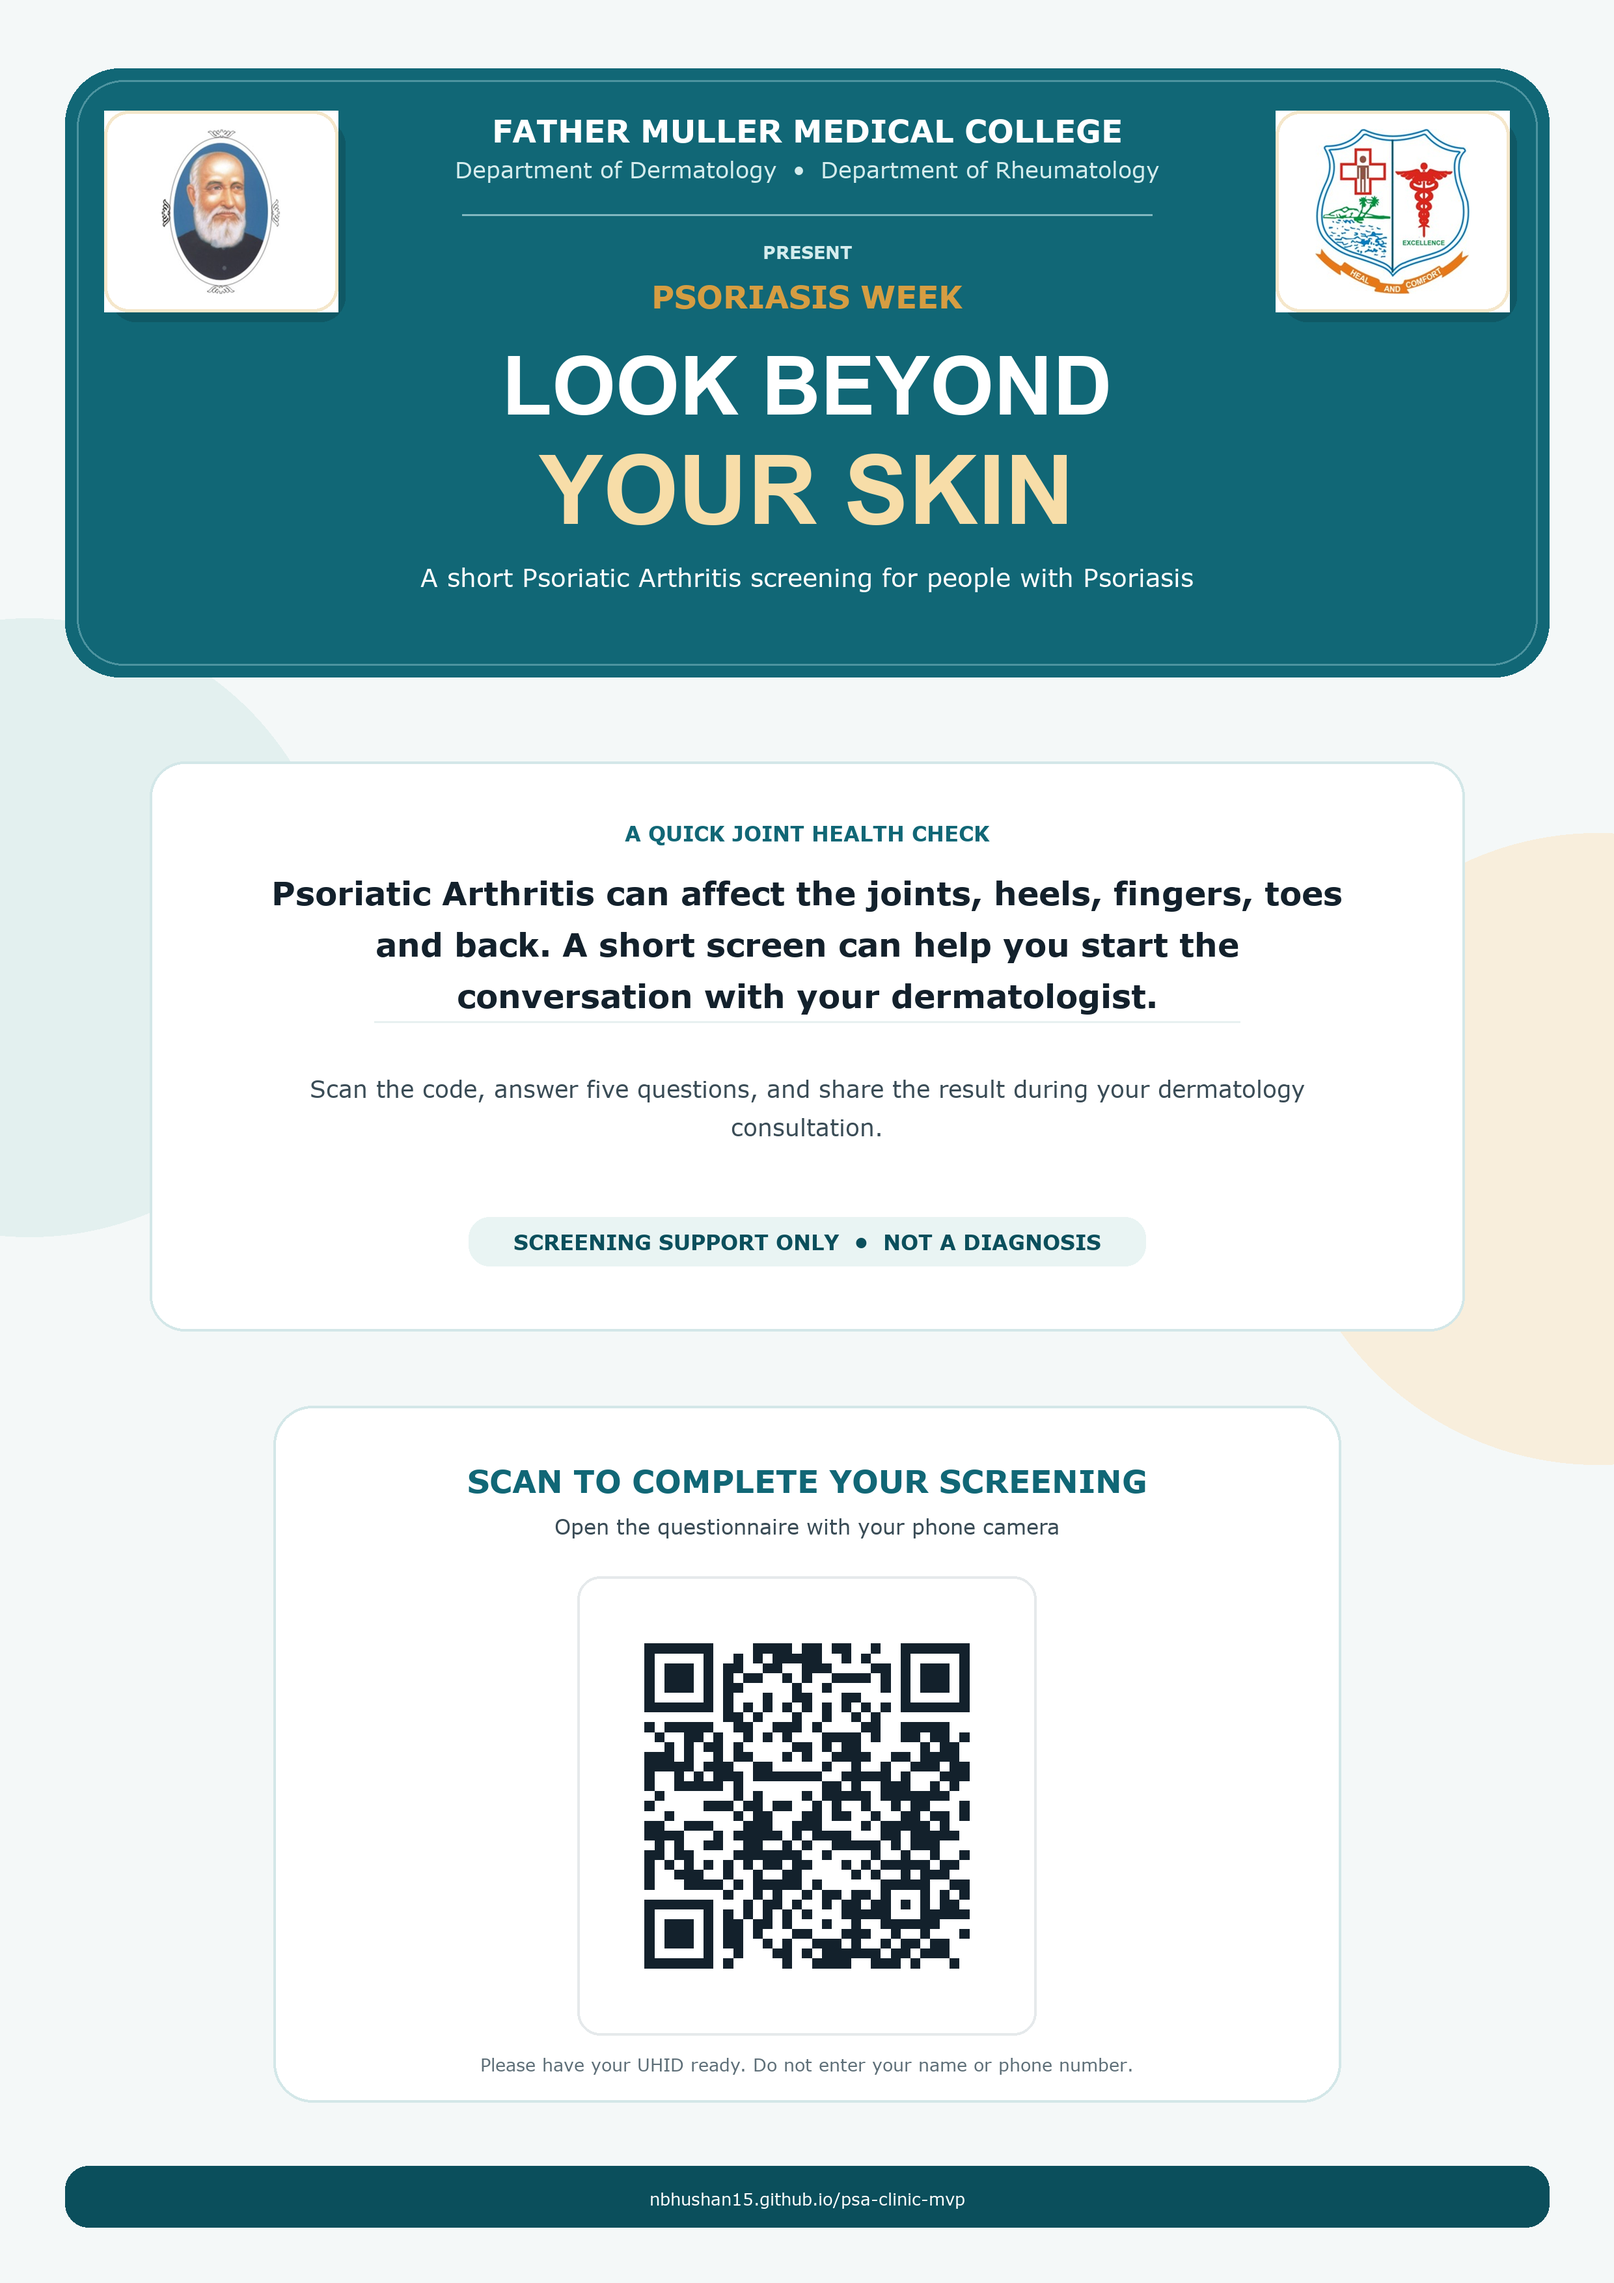
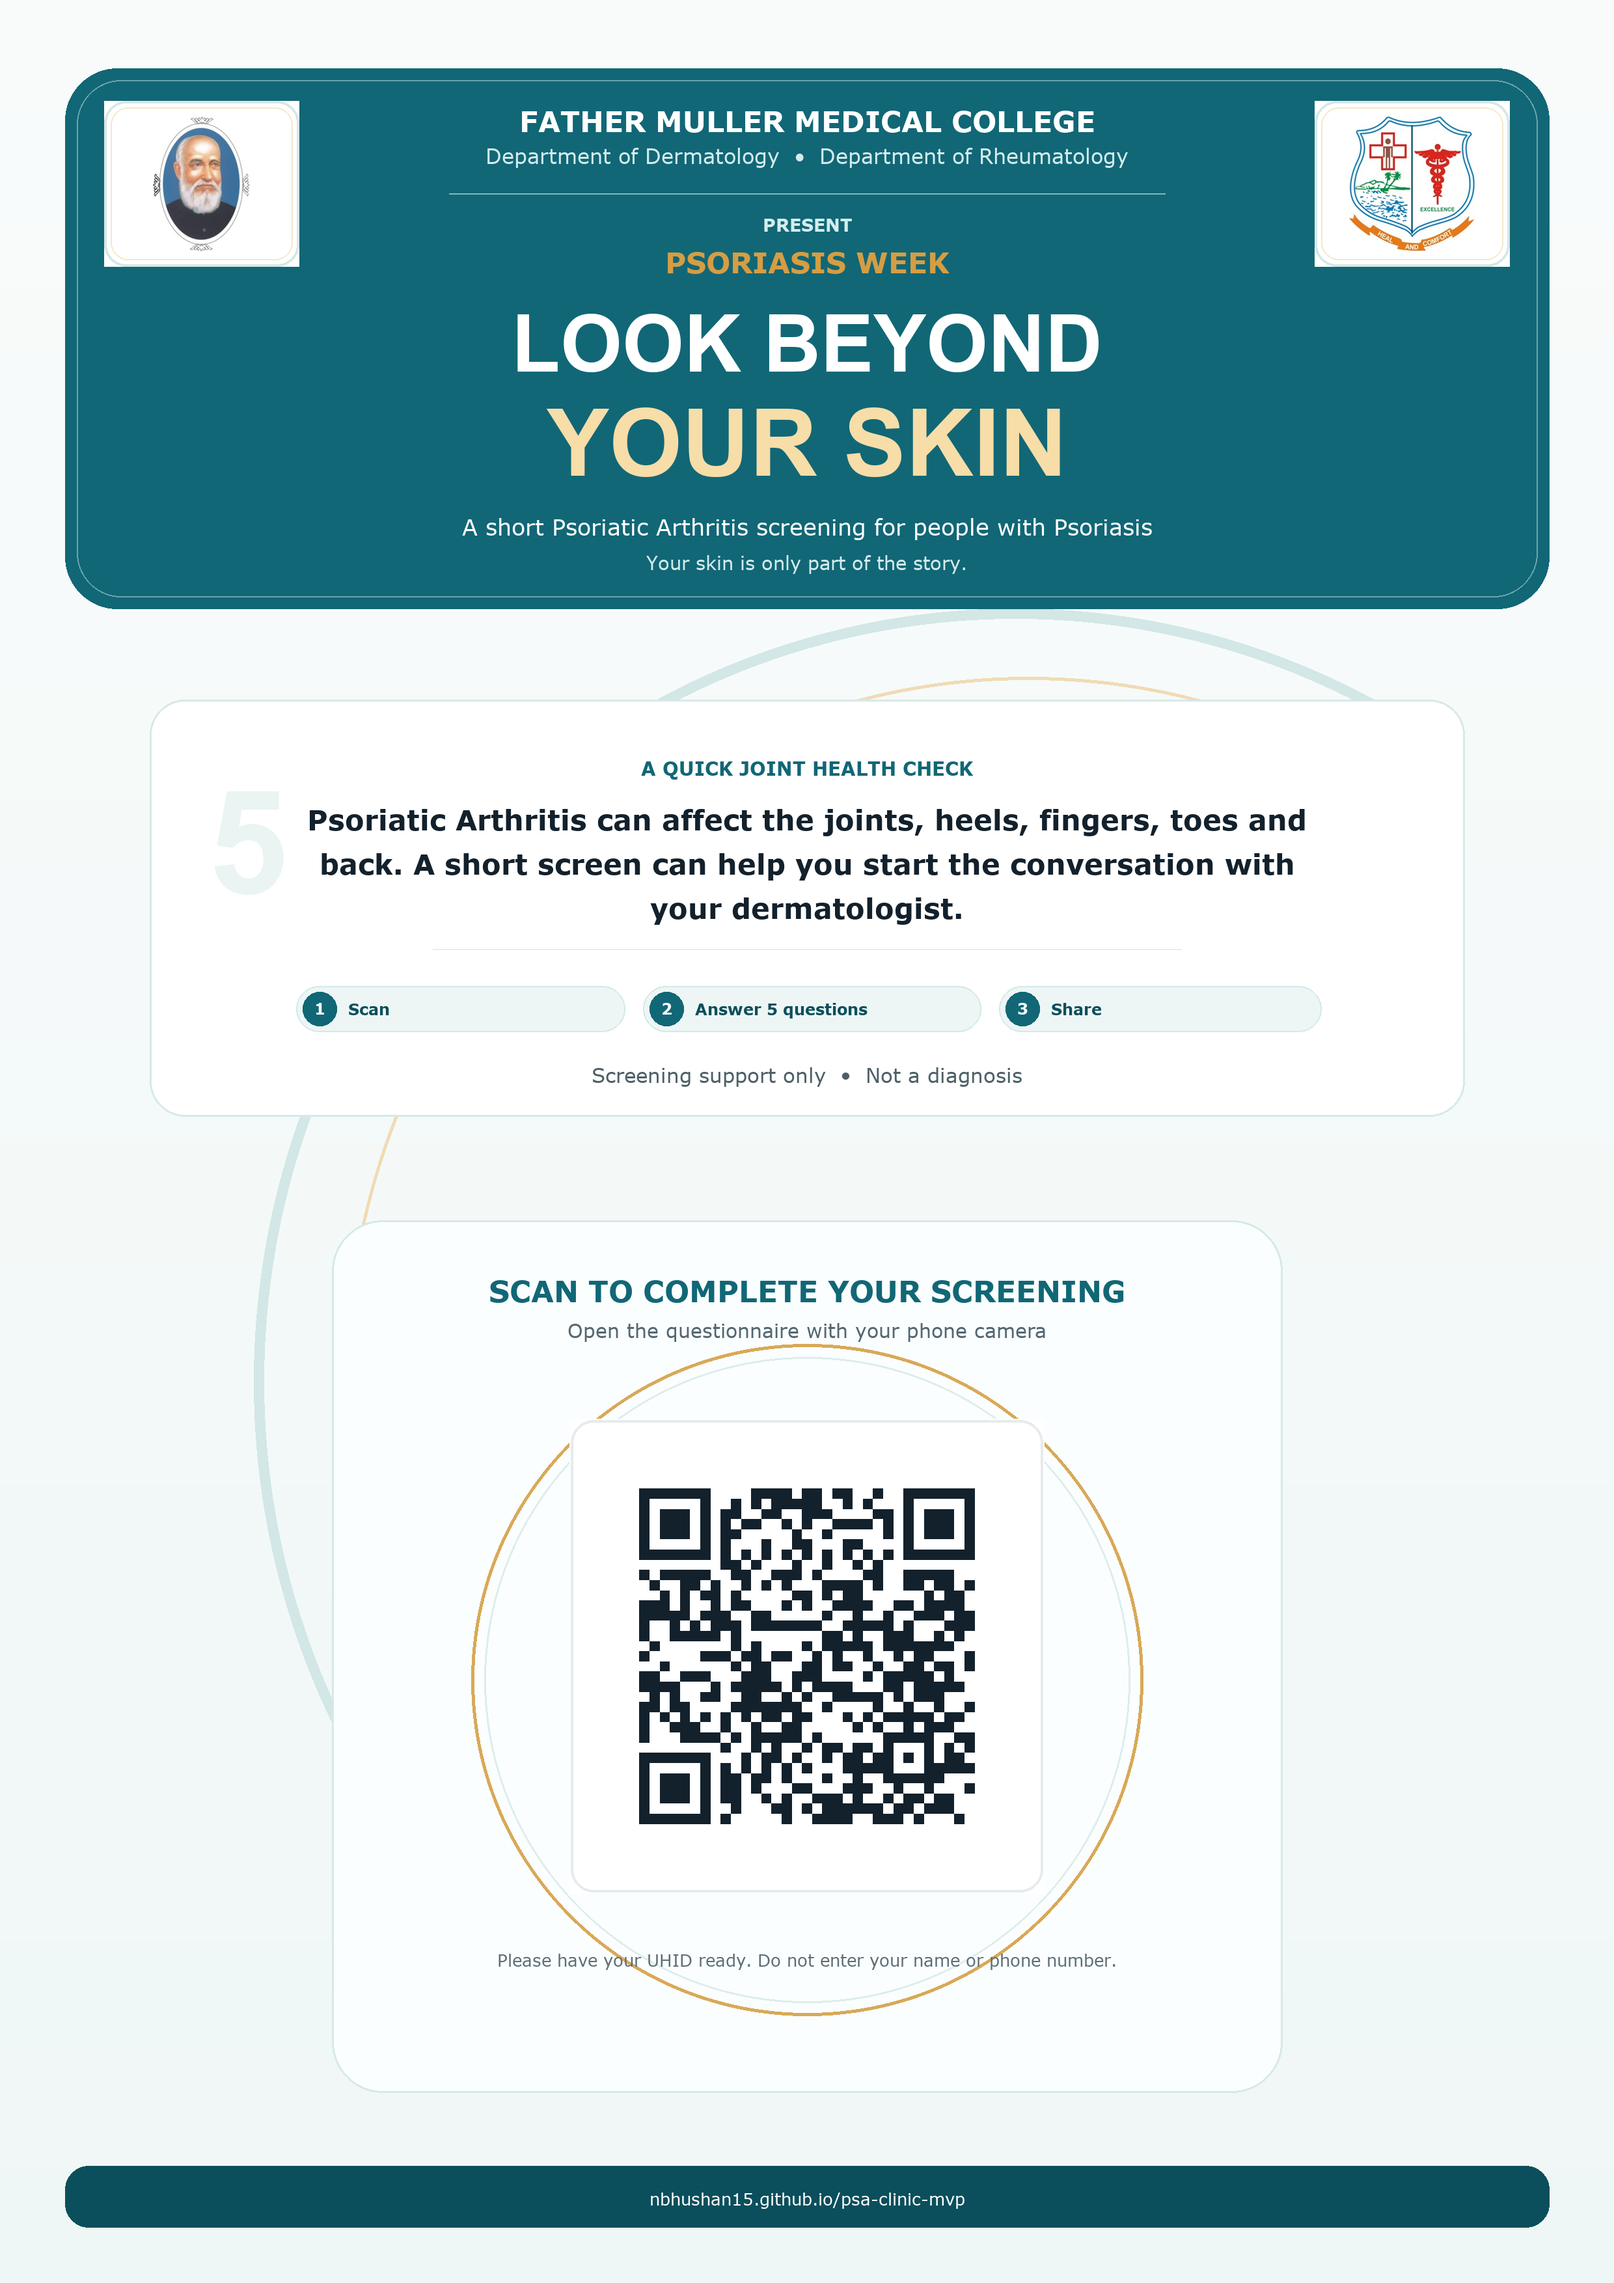
Refine campaign poster design

diff --git a/scripts/create_campaign_poster.py b/scripts/create_campaign_poster.py
@@ -102,19 +102,11 @@ def trimmed_logo(path: Path) -> Image.Image:
 
 def add_logo_badge(canvas: Image.Image, logo_path: Path, x: int, y: int, size: tuple[int, int]) -> None:
     badge_width, badge_height = size
-    shadow = Image.new("RGBA", canvas.size, (0, 0, 0, 0))
-    shadow_draw = ImageDraw.Draw(shadow)
-    shadow_draw.rounded_rectangle(
-        (x + 10, y + 14, x + badge_width + 10, y + badge_height + 14),
-        radius=38,
-        fill=(0, 0, 0, 36),
-    )
-    canvas.alpha_composite(shadow)
-
     badge = Image.new("RGBA", size, (255, 255, 255, 255))
     badge_draw = ImageDraw.Draw(badge)
-    badge_draw.rounded_rectangle((0, 0, badge_width - 1, badge_height - 1), radius=38, outline=PALE_GOLD, width=5)
-    logo = ImageOps.contain(trimmed_logo(logo_path), (badge_width - 56, badge_height - 56), Image.Resampling.LANCZOS).convert("RGBA")
+    badge_draw.rounded_rectangle((0, 0, badge_width - 1, badge_height - 1), radius=34, outline="#D7E7E7", width=4)
+    badge_draw.rounded_rectangle((10, 10, badge_width - 11, badge_height - 11), radius=27, outline=PALE_GOLD, width=2)
+    logo = ImageOps.contain(trimmed_logo(logo_path), (badge_width - 48, badge_height - 48), Image.Resampling.LANCZOS).convert("RGBA")
     badge.alpha_composite(logo, ((badge_width - logo.width) // 2, (badge_height - logo.height) // 2))
     canvas.alpha_composite(badge, (x, y))
 
@@ -132,82 +124,101 @@ def create_qr_code(size: int) -> Image.Image:
     return source.resize((size, size), Image.Resampling.NEAREST)
 
 
+def vertical_gradient(top: tuple[int, int, int], bottom: tuple[int, int, int]) -> Image.Image:
+    background = Image.new("RGB", (WIDTH, HEIGHT), top)
+    gradient = ImageDraw.Draw(background)
+    for y in range(HEIGHT):
+        fraction = y / (HEIGHT - 1)
+        colour = tuple(round(top[index] + (bottom[index] - top[index]) * fraction) for index in range(3))
+        gradient.line((0, y, WIDTH, y), fill=colour)
+    return background.convert("RGBA")
+
+
+def pill(draw: ImageDraw.ImageDraw, box: tuple[int, int, int, int], number: str, label: str) -> None:
+    left, top, right, bottom = box
+    draw.rounded_rectangle(box, radius=(bottom - top) // 2, fill="#EDF6F5", outline="#D3E9E8", width=2)
+    circle_size = bottom - top - 18
+    circle_left = left + 10
+    draw.ellipse((circle_left, top + 9, circle_left + circle_size, bottom - 9), fill=TEAL)
+    number_font = font(BOLD_FONT, 24)
+    label_font = font(BOLD_FONT, 24)
+    centered_text(draw, number, top + 19, number_font, WHITE, center=circle_left + circle_size // 2)
+    draw.text((circle_left + circle_size + 18, top + 20), label, font=label_font, fill=DEEP_TEAL)
+
+
 def build_poster() -> Image.Image:
-    canvas = Image.new("RGBA", (WIDTH, HEIGHT), MIST)
+    canvas = vertical_gradient((249, 251, 251), (239, 247, 246))
     draw = ImageDraw.Draw(canvas)
 
-    # Soft background geometry keeps the page warm without competing with the QR code.
-    draw.ellipse((-430, 950, 520, 1900), fill="#E3F0EF")
-    draw.ellipse((1970, 1280, 2940, 2250), fill="#F8EEDC")
-    draw.arc((165, 1190, 2315, 3350), 200, 340, fill="#D9E9E8", width=18)
+    # A single restrained curve gives the poster depth while retaining a clinical feel.
+    draw.arc((390, 935, 2730, 3310), 140, 305, fill="#D2E7E6", width=16)
+    draw.arc((530, 1040, 2630, 3200), 145, 290, fill="#F0DBB5", width=5)
 
     # Branded header.
-    draw.rounded_rectangle((100, 105, WIDTH - 100, 1040), radius=84, fill=TEAL)
-    draw.rounded_rectangle((118, 123, WIDTH - 118, 1022), radius=72, outline="#4D94A0", width=3)
-    add_logo_badge(canvas, ASSETS / "father-muller-portrait.jpg", 160, 170, (360, 310))
-    add_logo_badge(canvas, ASSETS / "father-muller-crest.jpg", WIDTH - 520, 170, (360, 310))
+    draw.rounded_rectangle((100, 105, WIDTH - 100, 935), radius=80, fill=TEAL)
+    draw.rounded_rectangle((118, 123, WIDTH - 118, 917), radius=68, outline="#6AA4AC", width=2)
+    add_logo_badge(canvas, ASSETS / "father-muller-portrait.jpg", 160, 155, (300, 255))
+    add_logo_badge(canvas, ASSETS / "father-muller-crest.jpg", WIDTH - 460, 155, (300, 255))
 
-    header_regular = font(REGULAR_FONT, 35)
-    header_bold = font(BOLD_FONT, 48)
+    header_regular = font(REGULAR_FONT, 32)
+    header_bold = font(BOLD_FONT, 44)
     tiny_caps = font(BOLD_FONT, 27)
-    title_font = font(ARIAL_BOLD_FONT, 126)
-    title_gold_font = font(ARIAL_BOLD_FONT, 148)
-    subtitle_font = font(REGULAR_FONT, 39)
+    title_font = font(ARIAL_BOLD_FONT, 122)
+    title_gold_font = font(ARIAL_BOLD_FONT, 144)
+    subtitle_font = font(REGULAR_FONT, 35)
 
-    centered_text(draw, "FATHER MULLER MEDICAL COLLEGE", 170, header_bold, WHITE)
-    centered_text(draw, "Department of Dermatology  •  Department of Rheumatology", 238, header_regular, "#D4ECED")
-    draw.line((710, 330, 1770, 330), fill="#82B8C0", width=3)
-    centered_text(draw, "PRESENT", 370, tiny_caps, "#D4ECED")
-    centered_text(draw, "PSORIASIS WEEK", 425, header_bold, GOLD)
-    centered_text(draw, "LOOK BEYOND", 522, title_font, WHITE)
-    centered_text(draw, "YOUR SKIN", 671, title_gold_font, "#F7DDA8")
-    centered_text(draw, "A short Psoriatic Arthritis screening for people with Psoriasis", 862, subtitle_font, WHITE)
+    centered_text(draw, "FATHER MULLER MEDICAL COLLEGE", 158, header_bold, WHITE)
+    centered_text(draw, "Department of Dermatology  •  Department of Rheumatology", 219, header_regular, "#D4ECED")
+    draw.line((690, 297, 1790, 297), fill="#82B8C0", width=2)
+    centered_text(draw, "PRESENT", 328, tiny_caps, "#D4ECED")
+    centered_text(draw, "PSORIASIS WEEK", 375, header_bold, GOLD)
+    centered_text(draw, "LOOK BEYOND", 460, title_font, WHITE)
+    centered_text(draw, "YOUR SKIN", 600, title_gold_font, "#F7DDA8")
+    centered_text(draw, "A short Psoriatic Arthritis screening for people with Psoriasis", 787, subtitle_font, WHITE)
+    centered_text(draw, "Your skin is only part of the story.", 846, font(REGULAR_FONT, 29), "#D4ECED")
 
     # Main message card.
-    draw.rounded_rectangle((230, 1170, WIDTH - 230, 2045), radius=54, fill=WHITE, outline="#D3E7E8", width=4)
-    section_label = font(BOLD_FONT, 32)
-    message_font = font(BOLD_FONT, 50)
-    body_font = font(REGULAR_FONT, 36)
-    centered_text(draw, "A QUICK JOINT HEALTH CHECK", 1260, section_label, TEAL)
+    draw.rounded_rectangle((230, 1075, WIDTH - 230, 1715), radius=54, fill=WHITE, outline="#D7E9E8", width=3)
+    section_label = font(BOLD_FONT, 29)
+    message_font = font(BOLD_FONT, 43)
+    body_font = font(REGULAR_FONT, 31)
+    ghost_five = font(ARIAL_BOLD_FONT, 220)
+    draw.text((320, 1172), "5", font=ghost_five, fill="#EAF4F3")
+    centered_text(draw, "A QUICK JOINT HEALTH CHECK", 1162, section_label, TEAL)
     centered_wrapped_text(
         draw,
         "Psoriatic Arthritis can affect the joints, heels, fingers, toes and back."
         " A short screen can help you start the conversation with your dermatologist.",
-        1340,
+        1232,
         message_font,
         INK,
-        1670,
-        18,
-    )
-    draw.line((575, 1570, 1905, 1570), fill="#E7F0F0", width=3)
-    centered_wrapped_text(
-        draw,
-        "Scan the code, answer five questions, and share the result during your dermatology consultation.",
-        1650,
-        body_font,
-        "#3A4C56",
-        1540,
+        1580,
         15,
     )
-    draw.rounded_rectangle((720, 1870, 1760, 1945), radius=32, fill="#E9F4F3")
-    centered_text(draw, "SCREENING SUPPORT ONLY  •  NOT A DIAGNOSIS", 1888, section_label, DEEP_TEAL)
+    draw.line((665, 1458, 1815, 1458), fill="#E5EEEE", width=2)
+    pill(draw, (455, 1515, 960, 1585), "1", "Scan")
+    pill(draw, (988, 1515, 1507, 1585), "2", "Answer 5 questions")
+    pill(draw, (1535, 1515, 2030, 1585), "3", "Share")
+    centered_text(draw, "Screening support only  •  Not a diagnosis", 1632, body_font, "#4D6067")
 
-    # Scan card.
-    draw.rounded_rectangle((420, 2160, WIDTH - 420, 3230), radius=60, fill=WHITE, outline="#D3E7E8", width=4)
-    scan_heading = font(BOLD_FONT, 48)
-    scan_body = font(REGULAR_FONT, 32)
-    scan_small = font(REGULAR_FONT, 27)
-    centered_text(draw, "SCAN TO COMPLETE YOUR SCREENING", 2245, scan_heading, TEAL)
-    centered_text(draw, "Open the questionnaire with your phone camera", 2325, scan_body, "#3A4C56")
+    # The scan area is deliberately uncluttered so it remains the visual destination.
+    draw.rounded_rectangle((510, 1875, WIDTH - 510, 3215), radius=78, fill="#FBFEFE", outline="#D6E9E8", width=3)
+    draw.ellipse((724, 2065, 1756, 3097), outline="#D8A958", width=5)
+    draw.ellipse((744, 2085, 1736, 3077), outline="#DDEDEC", width=3)
+    scan_heading = font(BOLD_FONT, 45)
+    scan_body = font(REGULAR_FONT, 30)
+    scan_small = font(REGULAR_FONT, 26)
+    centered_text(draw, "SCAN TO COMPLETE YOUR SCREENING", 1955, scan_heading, TEAL)
+    centered_text(draw, "Open the questionnaire with your phone camera", 2025, scan_body, "#536771")
 
-    qr_image = create_qr_code(620)
-    qr_panel = Image.new("RGBA", (710, 710), (255, 255, 255, 255))
+    qr_image = create_qr_code(640)
+    qr_panel = Image.new("RGBA", (730, 730), (255, 255, 255, 255))
     panel_draw = ImageDraw.Draw(qr_panel)
-    panel_draw.rounded_rectangle((2, 2, 707, 707), radius=35, outline="#E5E9EB", width=4)
-    qr_panel.alpha_composite(qr_image, ((710 - qr_image.width) // 2, (710 - qr_image.height) // 2))
-    canvas.alpha_composite(qr_panel, ((WIDTH - qr_panel.width) // 2, 2420))
+    panel_draw.rounded_rectangle((2, 2, 727, 727), radius=35, outline="#E6EBEC", width=4)
+    qr_panel.alpha_composite(qr_image, ((730 - qr_image.width) // 2, (730 - qr_image.height) // 2))
+    canvas.alpha_composite(qr_panel, ((WIDTH - qr_panel.width) // 2, 2180))
 
-    centered_text(draw, "Please have your UHID ready. Do not enter your name or phone number.", 3155, scan_small, "#5E6F78")
+    centered_text(draw, "Please have your UHID ready. Do not enter your name or phone number.", 2995, scan_small, "#5E6F78")
 
     # Footer with the full public address for people who cannot scan.
     draw.rounded_rectangle((100, 3328, WIDTH - 100, 3422), radius=36, fill=DEEP_TEAL)
